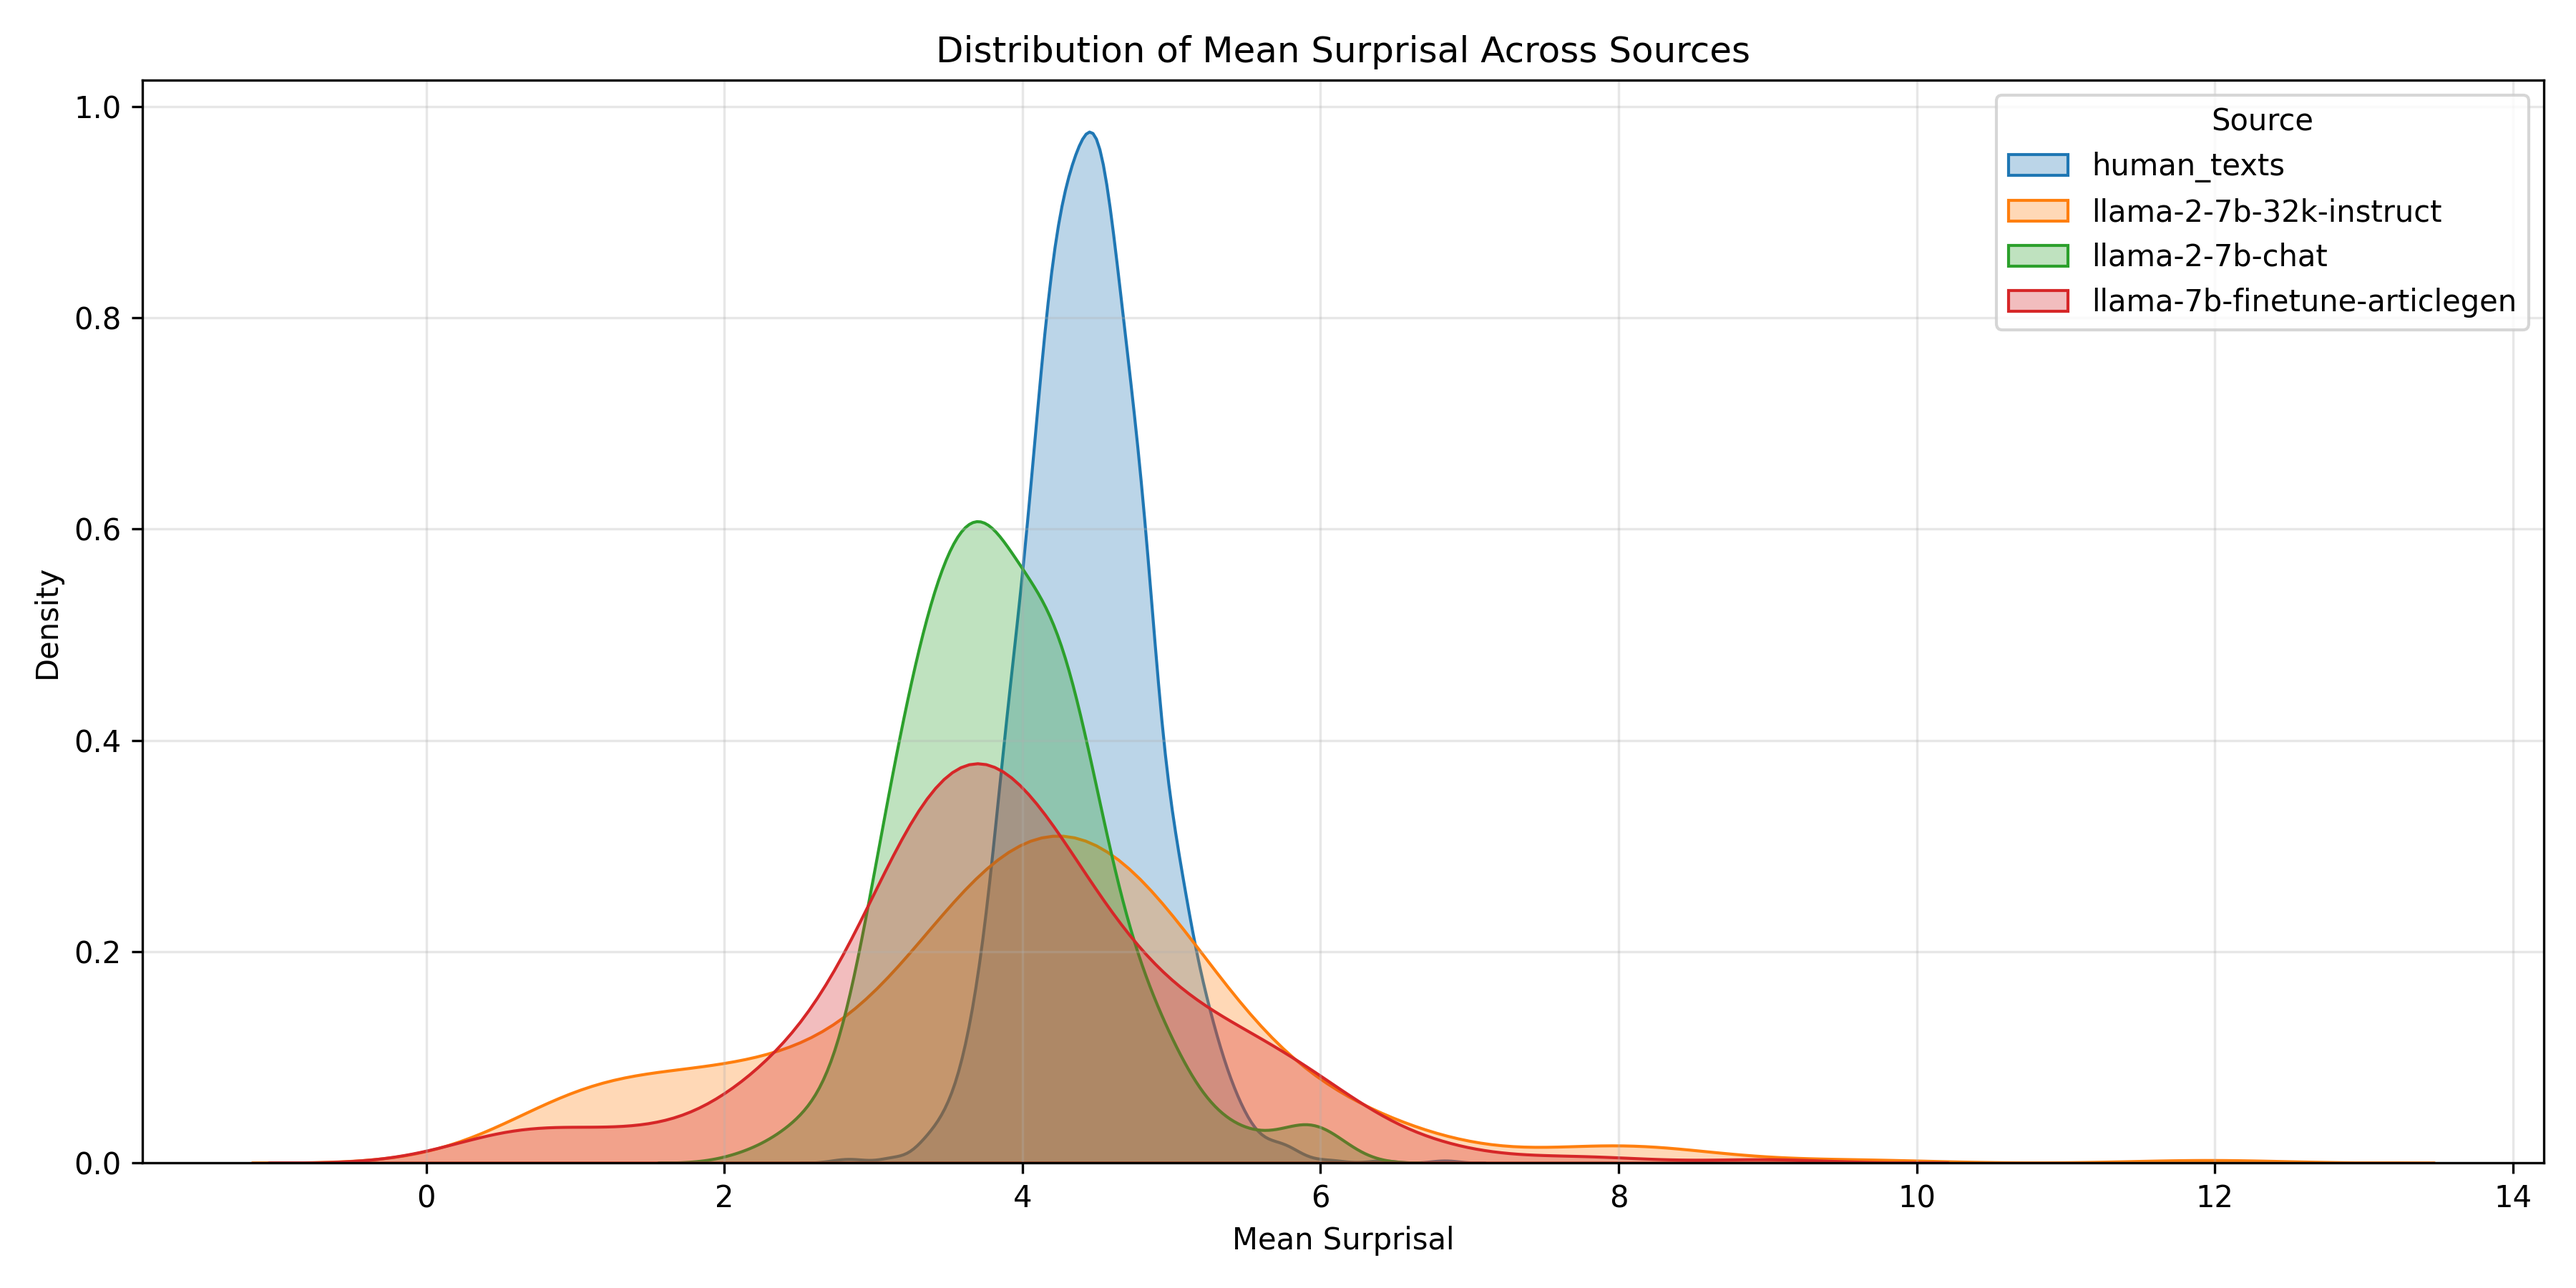
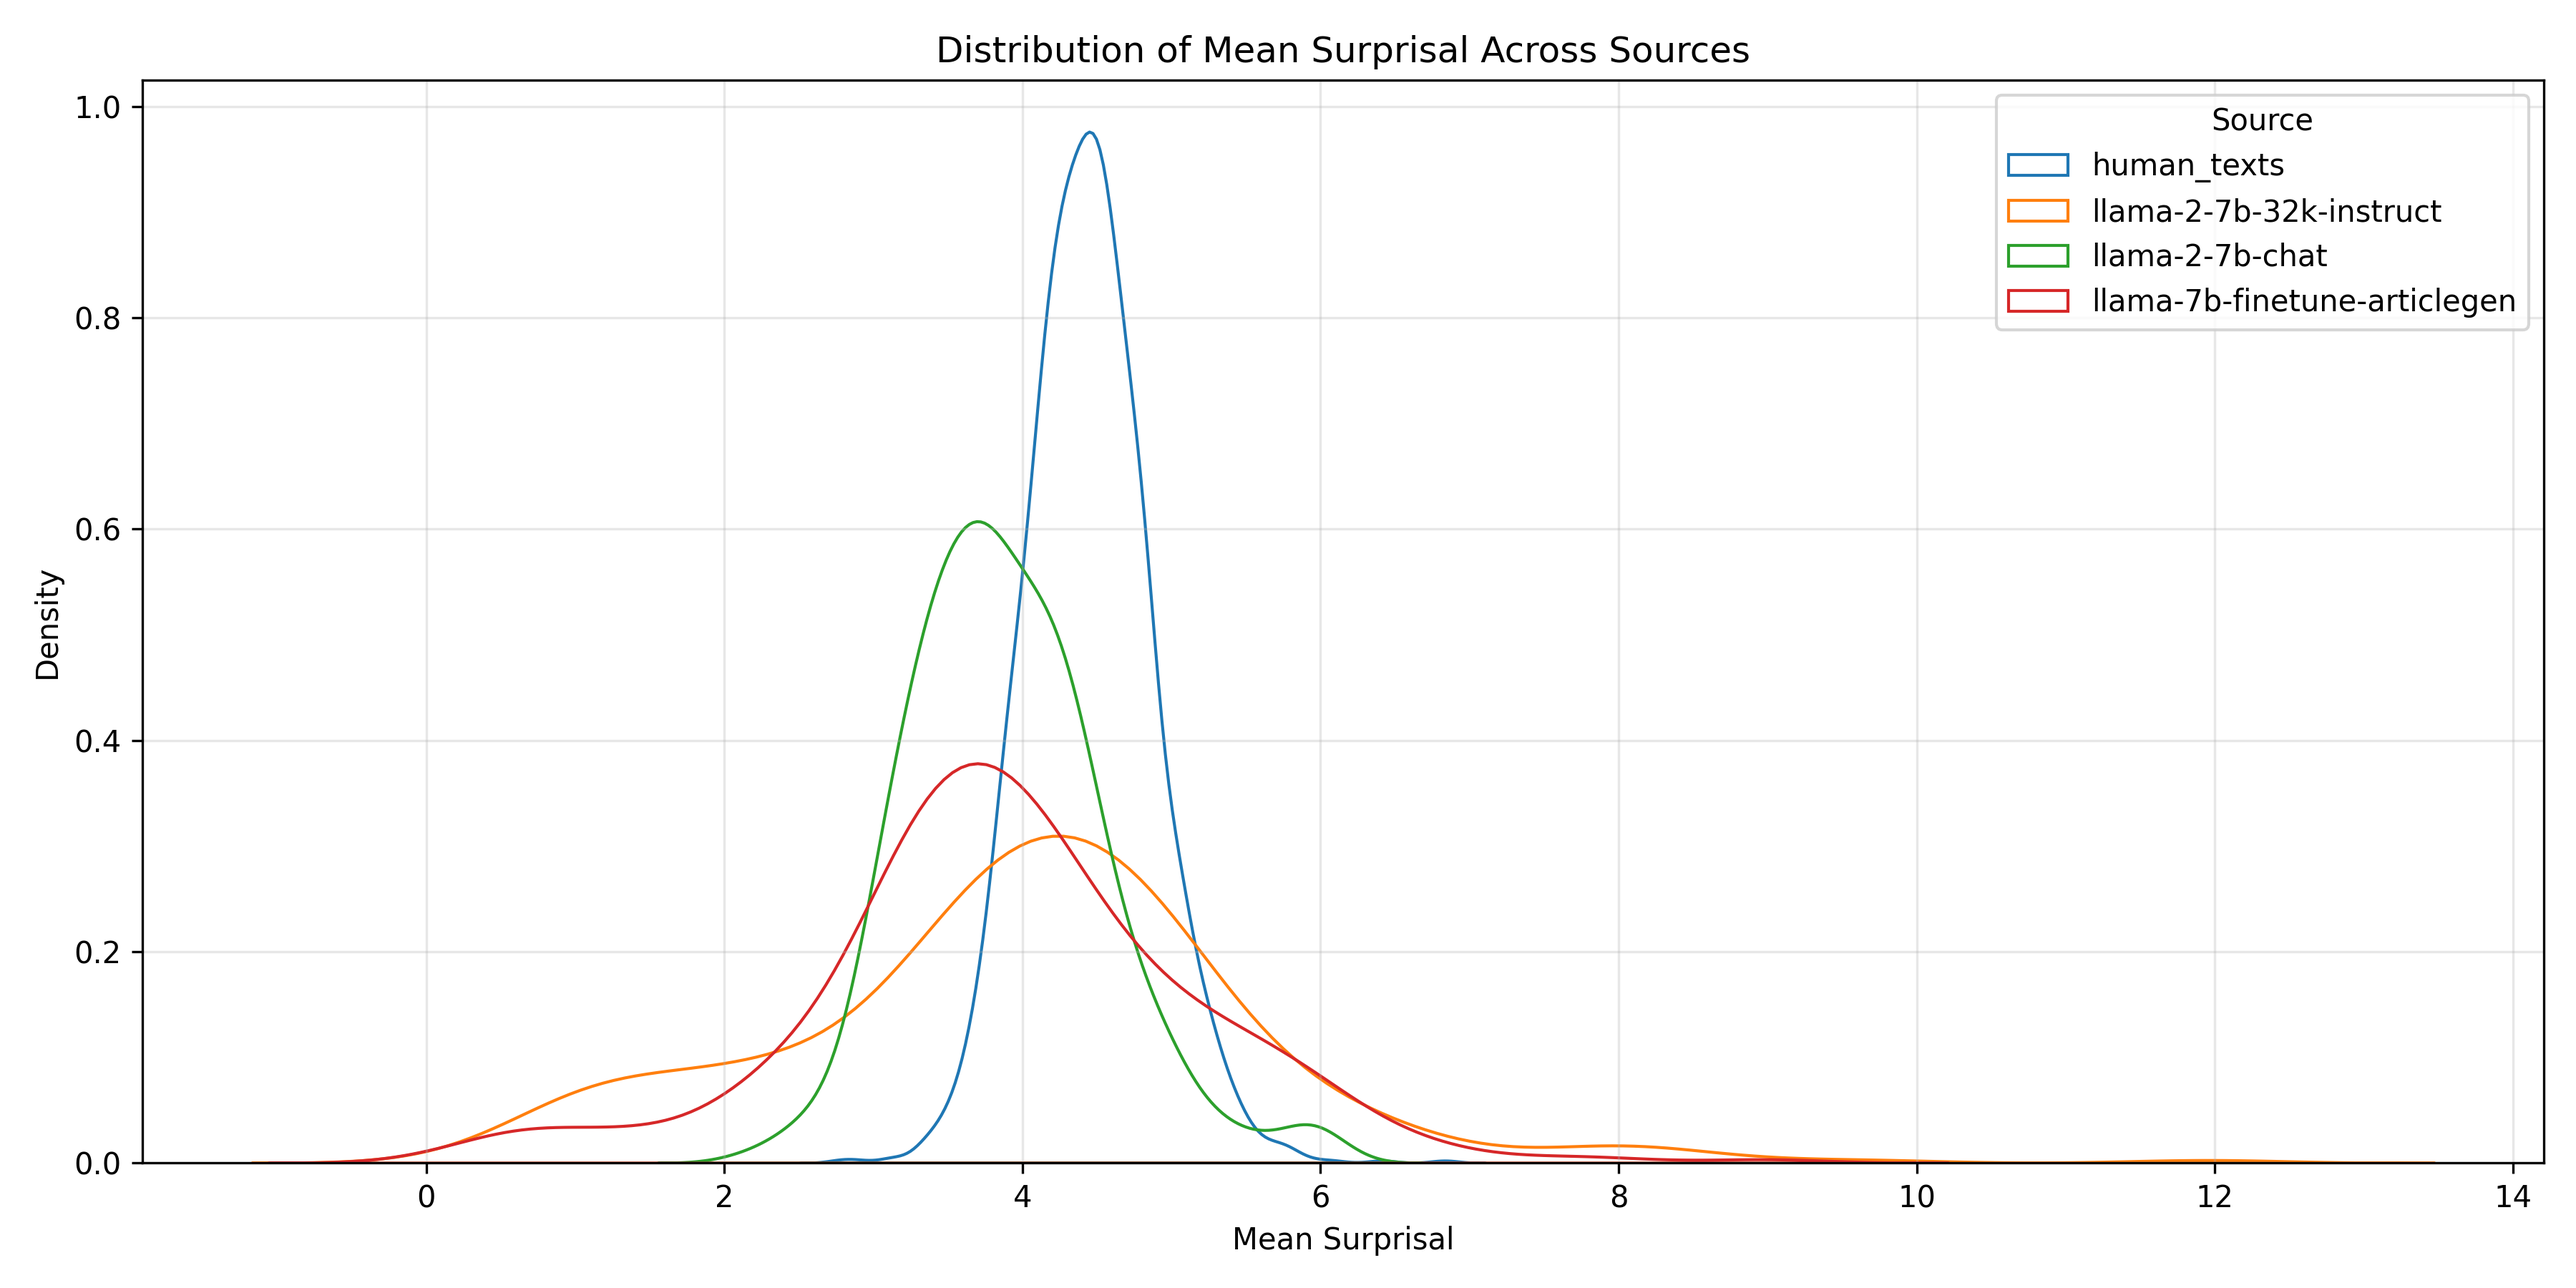
fix: remove background colors in kde plots

Changed region(s): [[0.1556, 0.0933, 0.6844, 0.9022], [0.7778, 0.1244, 0.8089, 0.2489]]

diff --git a/Scripts/compare_uid.py b/Scripts/compare_uid.py
@@ -82,7 +82,7 @@ def plot_distributions_comparison(metrics_df, output_dir):
                 label=model,
                 color=color_dict[model],
                 fill=True,
-                alpha=0.3
+                alpha=0.0
             )
         
         plt.title(f'Distribution of {metric_labels[metric]} Across Sources')
